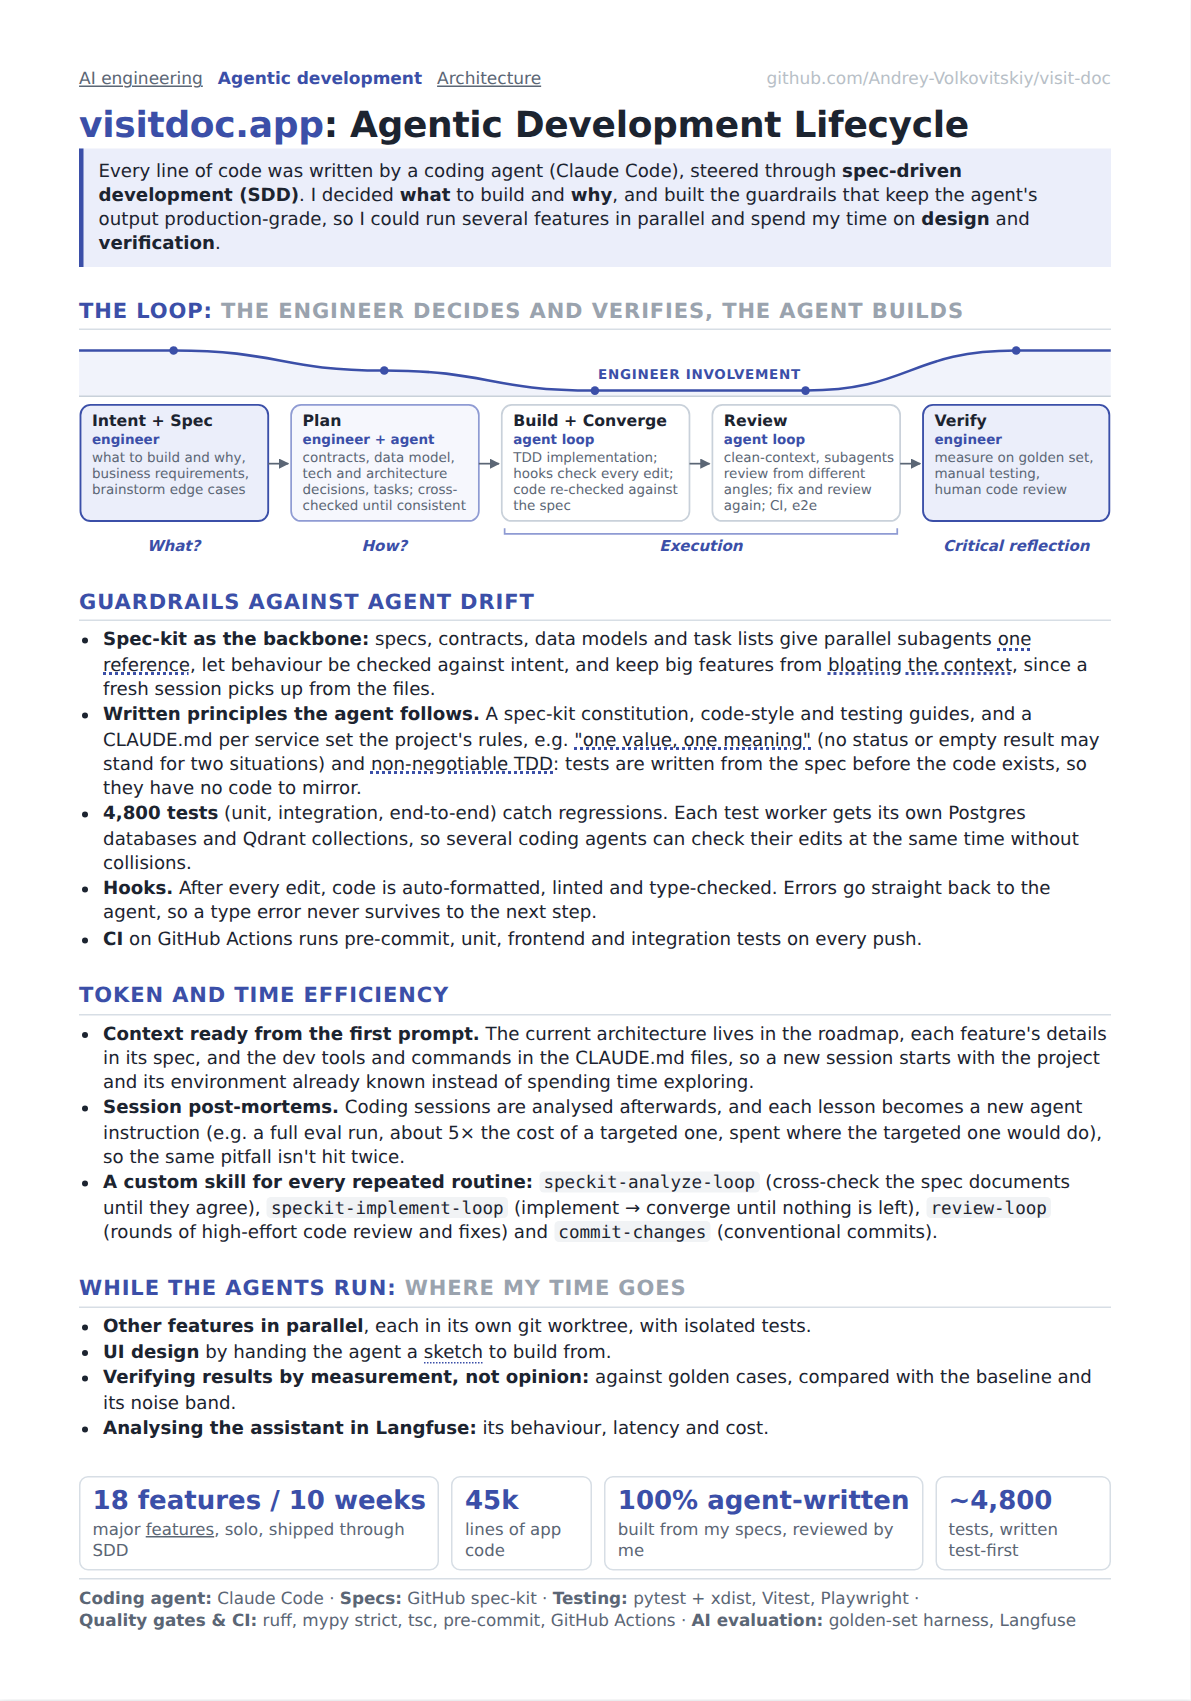
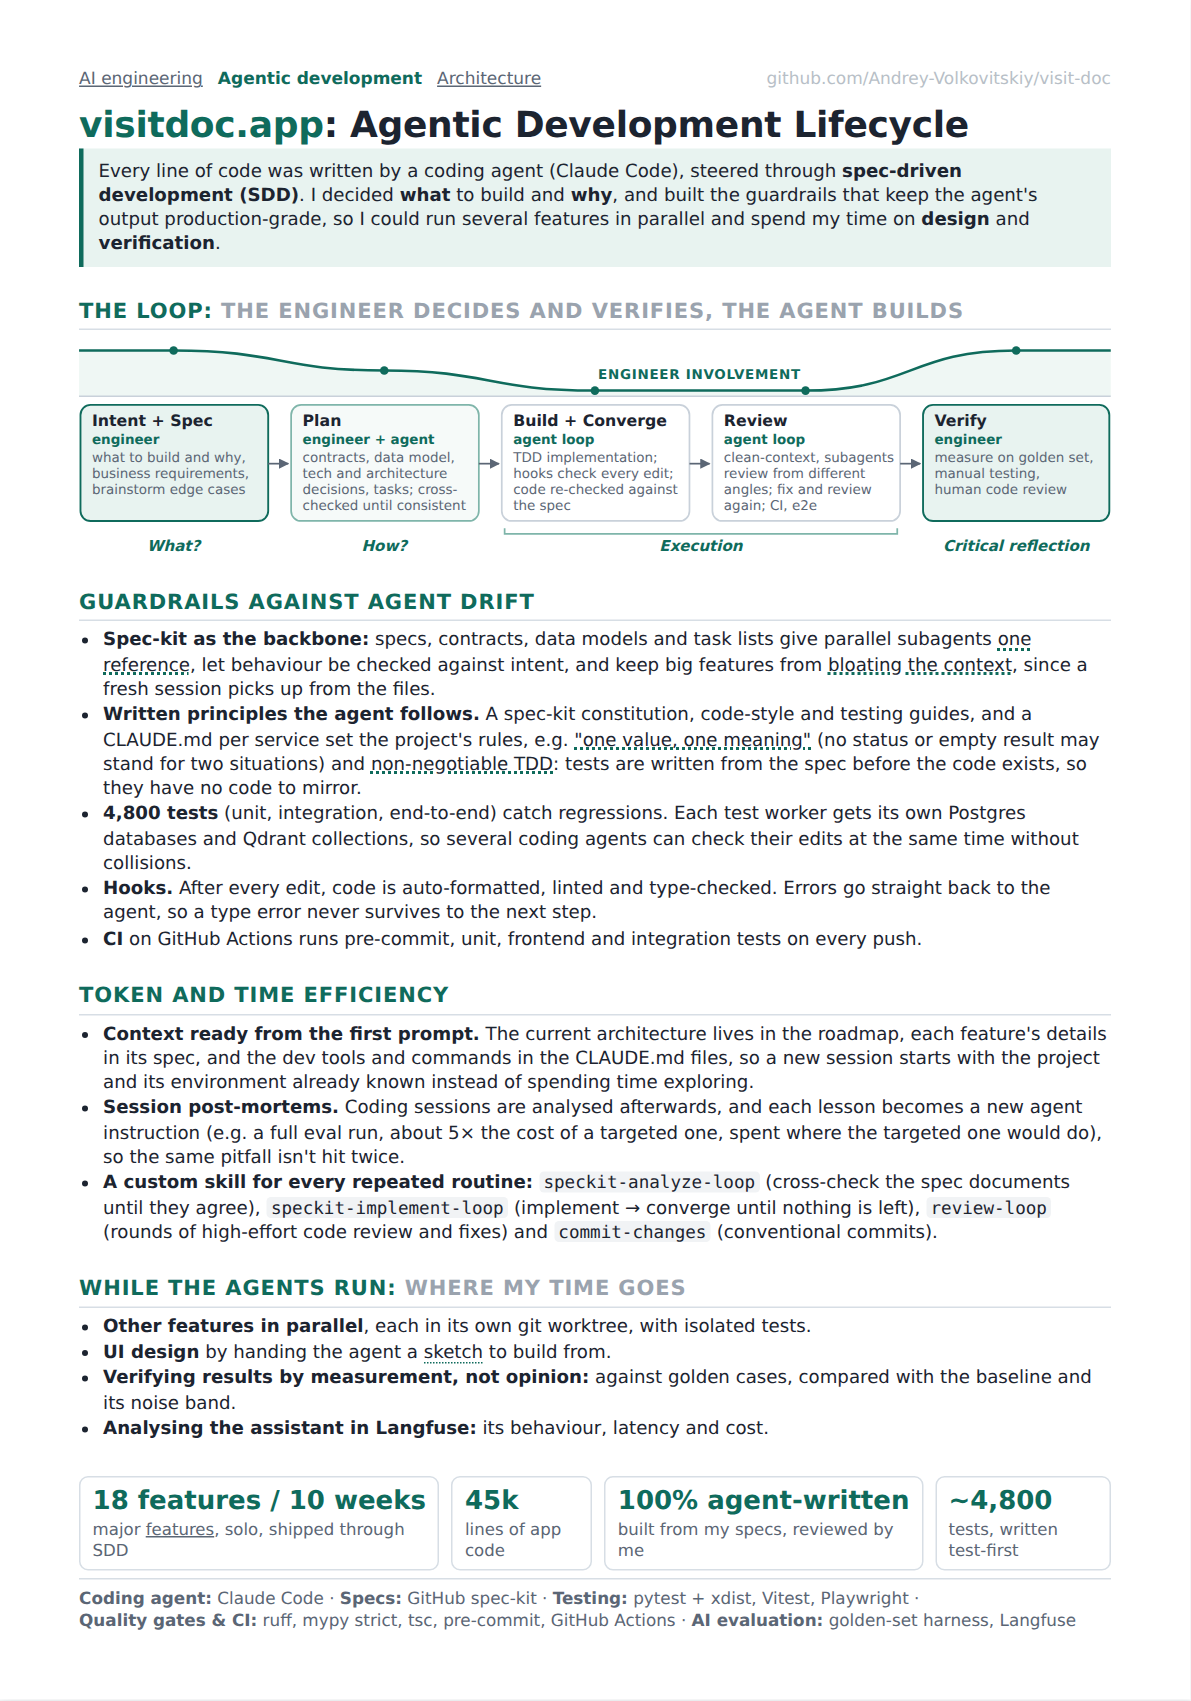
docs: Swap the ADLC and architecture one-pagers' colour schemes

diff --git a/docs/portfolio-adlc.html b/docs/portfolio-adlc.html
@@ -5,7 +5,7 @@
 <meta name="viewport" content="width=device-width, initial-scale=1">
 <title>visitdoc.app · Agentic Development</title>
 <style>
-  :root { --ink:#1c2430; --muted:#5b6675; --accent:#3b4fa8; --soft:#ebeefa; --line:#d7dee5; }
+  :root { --ink:#1c2430; --muted:#5b6675; --accent:#0f6b5c; --soft:#e8f3f0; --line:#d7dee5; }
   @page { size: A4; margin: 8mm 12mm; }
   * { box-sizing: border-box; }
   body { margin:0; background:#f4f6f8; color:var(--ink);
@@ -54,18 +54,18 @@
     <defs>
       <marker id="a3" viewBox="0 0 10 10" refX="9" refY="5" markerWidth="6" markerHeight="6" orient="auto"><path d="M0,0L10,5L0,10z" fill="#5b6675"/></marker>
       <style>
-        .hb{fill:#ebeefa;stroke:#3b4fa8;stroke-width:1.3}
-        .pb{fill:#f6f7fd;stroke:#8f9bd3;stroke-width:1.2}
+        .hb{fill:#e8f3f0;stroke:#0f6b5c;stroke-width:1.3}
+        .pb{fill:#f6faf9;stroke:#7fb5aa;stroke-width:1.2}
         .ab{fill:#fff;stroke:#c9d1da;stroke-width:1.2}
         .t3{font-size:11px;font-weight:600;fill:#1c2430}
         .s3{font-size:9.4px;fill:#5b6675}
-        .m3{font-size:9.4px;fill:#3b4fa8;font-weight:600}
-        .g3{font-size:9.4px;fill:#3b4fa8;font-weight:700;letter-spacing:.5px}
-        .q3{font-size:10.5px;fill:#3b4fa8;font-style:italic;font-weight:600}
-        .br3{stroke:#8f9bd3;stroke-width:1.2;fill:none}
+        .m3{font-size:9.4px;fill:#0f6b5c;font-weight:600}
+        .g3{font-size:9.4px;fill:#0f6b5c;font-weight:700;letter-spacing:.5px}
+        .q3{font-size:10.5px;fill:#0f6b5c;font-style:italic;font-weight:600}
+        .br3{stroke:#7fb5aa;stroke-width:1.2;fill:none}
         .ln3{stroke:#5b6675;stroke-width:1.2;fill:none;marker-end:url(#a3)}
-        .cv{stroke:#3b4fa8;stroke-width:1.8;fill:none}
-        .ar{fill:#ebeefa;opacity:.7}
+        .cv{stroke:#0f6b5c;stroke-width:1.8;fill:none}
+        .ar{fill:#e8f3f0;opacity:.7}
         .bs{stroke:#c9d1da;stroke-width:1}
       </style>
     </defs>
@@ -73,9 +73,9 @@
     <path class="ar" d="M0,8 H66 C140,8 140,22 213,22 C286,22 286,36 360,36 H507 C580,36 580,8 654,8 H720 V40 H0 Z"/>
     <path class="cv" d="M0,8 H66 C140,8 140,22 213,22 C286,22 286,36 360,36 H507 C580,36 580,8 654,8 H720"/>
     <line class="bs" x1="0" y1="40" x2="720" y2="40"/>
-    <circle cx="66" cy="8" r="3" fill="#3b4fa8"/><circle cx="213" cy="22" r="3" fill="#3b4fa8"/>
-    <circle cx="360" cy="36" r="3" fill="#3b4fa8"/><circle cx="507" cy="36" r="3" fill="#3b4fa8"/>
-    <circle cx="654" cy="8" r="3" fill="#3b4fa8"/>
+    <circle cx="66" cy="8" r="3" fill="#0f6b5c"/><circle cx="213" cy="22" r="3" fill="#0f6b5c"/>
+    <circle cx="360" cy="36" r="3" fill="#0f6b5c"/><circle cx="507" cy="36" r="3" fill="#0f6b5c"/>
+    <circle cx="654" cy="8" r="3" fill="#0f6b5c"/>
     <text class="g3" x="433" y="28" text-anchor="middle">ENGINEER INVOLVEMENT</text>
     <!-- stages -->
     <rect class="hb" x="1" y="46" width="131" height="81" rx="7"/>

diff --git a/docs/portfolio-architecture.html b/docs/portfolio-architecture.html
@@ -5,7 +5,7 @@
 <meta name="viewport" content="width=device-width, initial-scale=1">
 <title>visitdoc.app · Architecture</title>
 <style>
-  :root { --ink:#1c2430; --muted:#5b6675; --accent:#0f6b5c; --soft:#e8f3f0; --line:#d7dee5; }
+  :root { --ink:#1c2430; --muted:#5b6675; --accent:#3b4fa8; --soft:#ebeefa; --line:#d7dee5; }
   @page { size: A4; margin: 8mm 12mm; }
   * { box-sizing: border-box; }
   body { margin:0; background:#f4f6f8; color:var(--ink);
@@ -41,7 +41,7 @@
       <marker id="a" viewBox="0 0 10 10" refX="9" refY="5" markerWidth="6" markerHeight="6" orient="auto-start-reverse"><path d="M0,0L10,5L0,10z" fill="#5b6675"/></marker>
       <style>
         .box{fill:#fff;stroke:#c9d1da;stroke-width:1.2;rx:7}
-        .core{fill:#e8f3f0;stroke:#0f6b5c;stroke-width:1.4}
+        .core{fill:#ebeefa;stroke:#3b4fa8;stroke-width:1.4}
         .ext{fill:#f4f6f8;stroke:#c9d1da;stroke-dasharray:4 3}
         .t{font-size:12.5px;font-weight:600;fill:#1c2430}
         .s{font-size:10.5px;fill:#5b6675}
